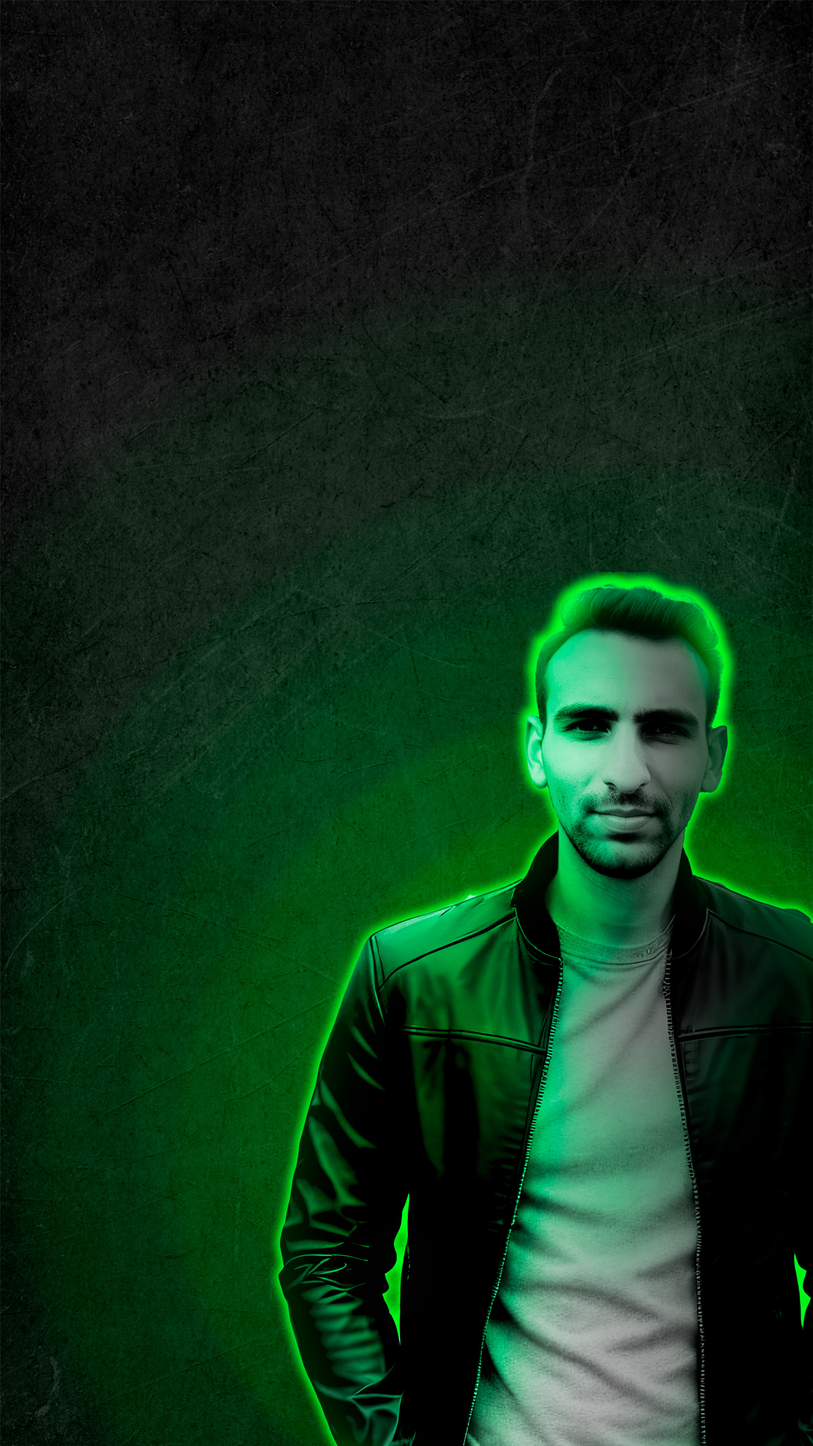
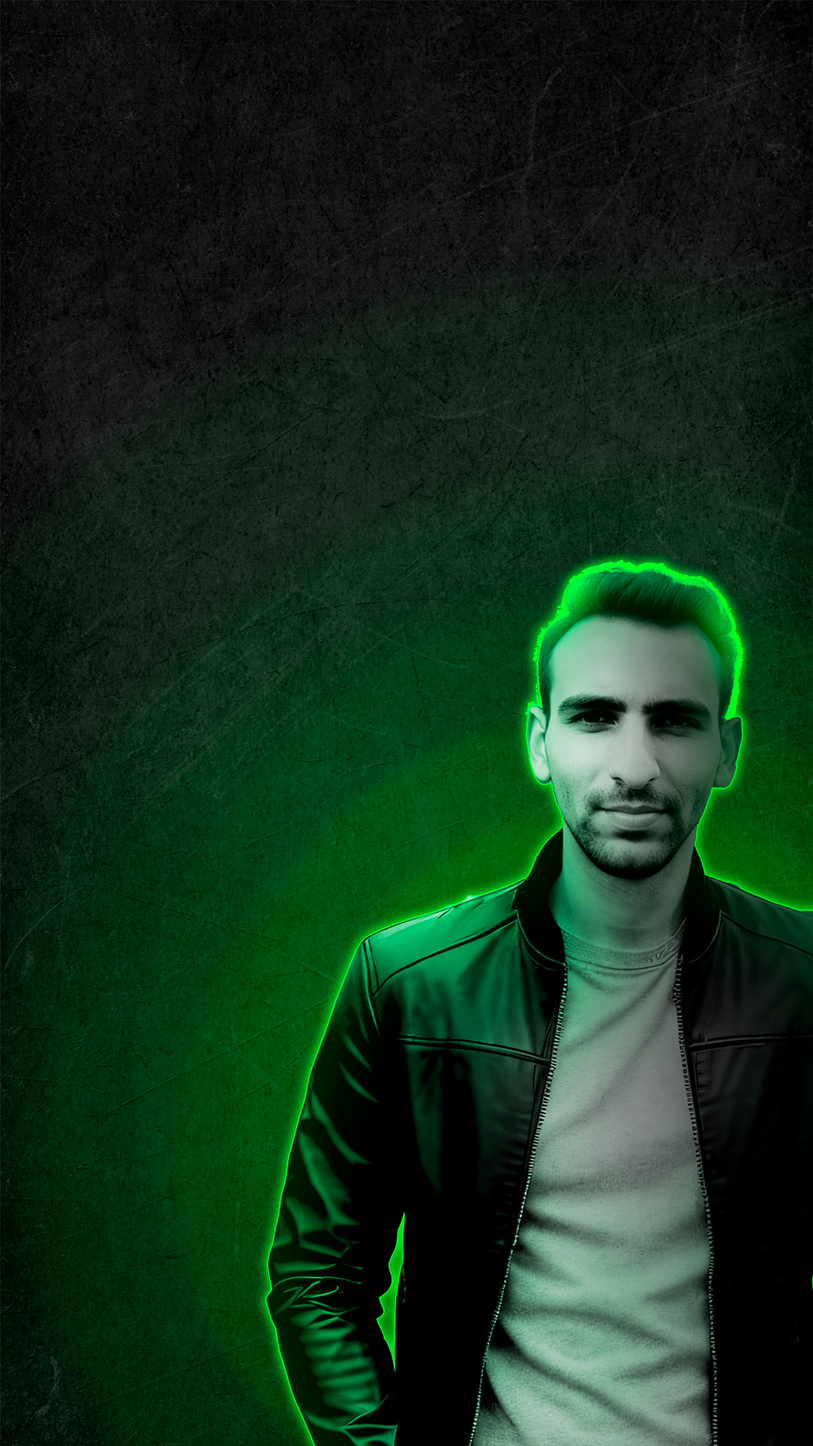
Site mk 12

diff --git a/pages/servicos.html b/pages/servicos.html
@@ -26,36 +26,36 @@
         
             <!-- Lista de links do menu hamburguer -->
             <ul class="menu-links">
-                <li><a  href="../">Home</a></li>
-                <li><a href="./sobre.html">Sobre</a></li>
-                <li><a class="active" href="#">Serviços</a></li>
-                <li><a href="./portfolio.html">Portfólio</a></li>
-                <li><a href="./contato.html">Contato</a></li>
+                <a  href="../"><li>Home</li></a>
+                <a href="./sobre.html"><li>Sobre</li></a>
+                <a class="active" href="#"><li>Serviços</li></a>
+                <a href="./portfolio.html"><li>Portfólio</li></a>
+                <a href="./contato.html"><li>Contato</li></a>
             </ul>
         </header>
 
         <div class="servico-container-text">
             <div class="servicos-text">
-                <h1>Serviços <span>Disponíveis</span></h1>
-                <h3><br>Fotografia e filmografia Freelancer</h3>
+                <h1>Serviços Disponíveis</h1>
+                <h3><br><span>Fotografia e filmografia Freelancer</span></h3>
                     <p>
-                        *Prestação de serviços de fotografia e filmografia freelancer 
+                        • Fotografia e filmografia freelancer 
                         para eventos usando equipamento próprio ou o designado 
                         pelo contratante.
                     </p>
-                <h3><br>Edição de vídeos</h3>
+                <h3><br><span>Edição de vídeos</span></h3>
                     <P> 
-                        *Prestação de serviços de edição e criação de vídeos Motion.<br>
-                        *Prestação de serviços de edição de videos para o youtube.<br>
-                        *Prestação de serviços de edição de vídeos para 15 anos, casamentos e etc.
+                        • Edição e criação de vídeos Motion.<br>
+                        • Edição de videos para o youtube.<br>
+                        • Edição de vídeos para 15 anos, casamentos e etc.
                     </P>
-                <h3><br>Design</h3>
+                <h3><br><span>Design</span></h3>
                     <p>
-                        *Prestação de serviços de criação de Flyers, capas e banners para eventos.                    
+                        • Criação de Flyers, capas e banners para eventos.                    
                     </p>
-                <h3><br>Transmissão ao vivo</h3>
+                <h3><br><span>Transmissão de vídeo</span></h3>
                     <p>
-                        *Prestação de serviço de Transmissão ao vivo (LIVE) para bandas, eventos e etc.
+                        • Prestação de serviço de transmissão de vídeo ao vivo (LIVE) para bandas, eventos e etc.
                     </p>
                 
             </div><!--text-->

diff --git a/pages/sobre.css b/pages/sobre.css
@@ -187,6 +187,7 @@ header{
         gap: 0;
         border-radius: 10px;
         margin-left: 10%;
+        z-index: 1;
 
     }
 
@@ -198,29 +199,31 @@ header{
         padding: 20px;
         width: 100%;
         text-align: center;
+        width: 100%;
     }
 
     .menu-links a {
         color: #fff;
         text-decoration: none;
         font-size: 16px;
-        
+        width: 100%;        
     }
-
+    
     .background{
-        background: linear-gradient(rgba(0, 0, 0, 0.123), rgba(0, 0, 0, 0.384)),url(../img/mobile-background.jpg);
+        background: linear-gradient(rgba(0, 0, 0, 0.123), rgba(0, 0, 0, 0.384)),url(../img/mobile-background-2.jpg);
         background-size: cover;
         background-position: center;
-        background-attachment: fixed;
-               
-    }
+        width: 100%;
+        height: 100vh;       
+        z-index: -1;
+       }
 
     .content-interno {
         z-index: 1;
         width: 100%;
         height: 100%;
         padding-bottom: 10%;
-        background: linear-gradient(rgba(0, 0, 0, 0.123), rgba(0, 0, 0, 0.384)),url(../img/mobile-background.jpg);
+        background: linear-gradient(rgba(0, 0, 0, 0.123), rgba(0, 0, 0, 0.384)),url(../img/mobile-background-2.jpg);
         background-size: cover;
         background-position: center;
         background-attachment: fixed;
@@ -230,10 +233,30 @@ header{
         margin-top: 8%;
         margin-left: 10%;
         margin-right: 10%;
-        width: 60%; 
+        width: 80%;         
+    }
 
-
-        
+    .text h3{
+        color: #fff;
+        font-size: 15px;
+    }
+    
+    .text h1{
+        font-size: 28px;
+        color: #fff;
+        text-align: center;
+    }
+    
+    .text span{
+        color: #2ecc71; 
+    }
+    
+    .text p{
+        color: #fff;
+        font-weight: 500;
+        margin-top: 10px;
+        font-size: 11px;
+        text-align: center;
     }
 
     .sobre-texto {

diff --git a/pages/servicos.css b/pages/servicos.css
@@ -93,7 +93,7 @@ header{
 .servico-container-text{
     margin-top: 4.5%;
     margin-left: 10%;
-    width: 50%;
+    width: 35%;
 }
 
 .servicos-text h3{
@@ -114,7 +114,7 @@ header{
     color: #fff;
     font-weight: 500;
     margin-top: 10px;
-    font-size: 11px;
+    font-size: 12px;
 }
 
 .redes-social{
@@ -169,6 +169,7 @@ header{
         gap: 0;
         border-radius: 10px;
         margin-left: 10%;
+        z-index: 1;
 
     }
 
@@ -180,22 +181,22 @@ header{
         padding: 20px;
         width: 100%;
         text-align: center;
+        width: 100%;
     }
 
     .menu-links a {
         color: #fff;
         text-decoration: none;
         font-size: 16px;
-        
+        width: 100%;        
     }
 
     .background{
-        background: linear-gradient(rgba(0, 0, 0, 0.123), rgba(0, 0, 0, 0.384)),url(../img/mobile-background.jpg);
+        background: linear-gradient(rgba(0, 0, 0, 0.123), rgba(0, 0, 0, 0.384)),url(../img/mobile-background-2.jpg);
         background-size: cover;
         background-position: center;
         width: 100%;
-        height: 100vh;
-       
+        height: 100vh;       
        }
     
    
@@ -213,7 +214,32 @@ header{
     .servico-container-text{
         margin-top: 10%;
         margin-left: 10%;
-        width: 65%;
+        width: 80%;
+    }
+
+    .servicos-text h3{
+        color: #fff;
+        font-size: 16px;
+        text-align: center;
+    }
+    
+    .servicos-text h1{
+        color: #fff;
+        margin-top: 10px;
+        text-align: center;
+    }
+    
+    .servicos-text span{
+        color: #2ecc71; 
+    }
+    
+    .servicos-text p{
+        color: #fff;
+        font-weight: 500;
+        margin-top: 10px;
+        font-size: 12px;
+        text-align:center;
+        text-shadow: 1px 1px 2px rgb(0, 0, 0);
     }
     
 }

diff --git a/index.html b/index.html
@@ -26,11 +26,11 @@
         
             <!-- Lista de links do menu / menu hamburguer -->
             <ul class="menu-links">
-                <li><a class="active" href="#">Home</a></li>
-                <li><a href="./pages/sobre.html">Sobre</a></li>
-                <li><a href="./pages/servicos.html">Serviços</a></li>
-                <li><a href="./pages/portfolio.html">Portfólio</a></li>
-                <li><a href="./pages/contato.html">Contato</a></li>
+                <a class="active" href="#"><li>Home</li></a>
+                <a href="./pages/sobre.html"><li>Sobre</li></a>
+                <a href="./pages/servicos.html"><li>Serviços</li></a>
+                <a href="./pages/portfolio.html"><li>Portfólio</li></a>
+                <a href="./pages/contato.html"><li>Contato</li></a>
             </ul>
         </header>
 

diff --git a/pages/sobre.html b/pages/sobre.html
@@ -29,11 +29,11 @@
             
                 <!-- Lista de links do menu hamburguer -->
                 <ul class="menu-links">
-                    <li><a  href="../">Home</a></li>
-                    <li><a class="active" href="#">Sobre</a></li>
-                    <li><a href="./servicos.html">Serviços</a></li>
-                    <li><a href="./portfolio.html">Portfólio</a></li>
-                    <li><a href="./contato.html">Contato</a></li>
+                    <a  href="../"><li>Home</li></a>
+                    <a class="active" href="#"><li>Sobre</li></a>
+                    <a href="./servicos.html"><li>Serviços</li></a>
+                    <a href="./portfolio.html"><li>Portfólio</li></a>
+                    <a href="./contato.html"><li>Contato</li></a>
                 </ul>
             </header>
     

diff --git a/pages/portfolio/design.html b/pages/portfolio/design.html
@@ -26,11 +26,11 @@
         
             <!-- Lista de links do menu hamburguer -->
             <ul class="menu-links">
-                <li><a  href="../../">Home</a></li>
-                <li><a href="../sobre.html">Sobre</a></li>
-                <li><a href="../servicos.html">Serviços</a></li>
-                <li><a class="active" href="../portfolio.html">Portfólio</a></li>
-                <li><a href="../contato.html">Contato</a></li>
+                <a  href="../../"><li>Home</li></a>
+                <a href="../sobre.html"><li>Sobre</li></a>
+                <a href="../servicos.html"><li>Serviços</li></a>
+                <a class="active" href="../portfolio.html"><li>Portfólio</li></a>
+                <a href="../contato.html"><li>Contato</li></a>
             </ul>
         </header>
         

diff --git a/pages/portfolio/fotos.html b/pages/portfolio/fotos.html
@@ -26,11 +26,11 @@
         
             <!-- Lista de links do menu hamburguer -->
             <ul class="menu-links">
-                <li><a  href="../../">Home</a></li>
-                <li><a href="../sobre.html">Sobre</a></li>
-                <li><a href="../servicos.html">Serviços</a></li>
-                <li><a class="active" href="../portfolio.html">Portfólio</a></li>
-                <li><a href="../contato.html">Contato</a></li>
+                <a  href="../../"><li>Home</li></a>
+                <a href="../sobre.html"><li>Sobre</li></a>
+                <a href="../servicos.html"><li>Serviços</li></a>
+                <a class="active" href="../portfolio.html"><li>Portfólio</li></a>
+                <a href="../contato.html"><li>Contato</li></a>
             </ul>
         </header>
         

diff --git a/pages/portfolio/videos.html b/pages/portfolio/videos.html
@@ -26,11 +26,11 @@
         
             <!-- Lista de links do menu hamburguer -->
             <ul class="menu-links">
-                <li><a  href="../../">Home</a></li>
-                <li><a href="../sobre.html">Sobre</a></li>
-                <li><a href="../servicos.html">Serviços</a></li>
-                <li><a class="active" href="../portfolio.html">Portfólio</a></li>
-                <li><a href="../contato.html">Contato</a></li>
+                <a  href="../../"><li>Home</li></a>
+                <a href="../sobre.html"><li>Sobre</li></a>
+                <a href="../servicos.html"><li>Serviços</li></a>
+                <a class="active" href="../portfolio.html"><li>Portfólio</li></a>
+                <a href="../contato.html"><li>Contato</li></a>
             </ul>
         </header>
         

diff --git a/pages/contato.html b/pages/contato.html
@@ -26,11 +26,11 @@
         
             <!-- Lista de links do menu hamburguer -->
             <ul class="menu-links">
-                <li><a  href="../">Home</a></li>
-                <li><a href="./sobre.html">Sobre</a></li>
-                <li><a href="./servicos.html">Serviços</a></li>
-                <li><a href="./portfolio.html">Portfólio</a></li>
-                <li><a class="active" href="#">Contato</a></li>
+                <a  href="../"><li>Home</li></a>
+                <a href="./sobre.html"><li>Sobre</li></a>
+                <a href="./servicos.html"><li>Serviços</li></a>
+                <a href="./portfolio.html"><li>Portfólio</li></a>
+                <a class="active" href="#"><li>Contato</li></a>
             </ul>
         </header>
 

diff --git a/pages/portfolio.html b/pages/portfolio.html
@@ -27,11 +27,11 @@
         
             <!-- Lista de links do menu hamburguer -->
             <ul class="menu-links">
-                <li><a  href="../">Home</a></li>
-                <li><a href="./sobre.html">Sobre</a></li>
-                <li><a href="./servicos.html">Serviços</a></li>
-                <li><a class="active" href="#">Portfólio</a></li>
-                <li><a href="./contato.html">Contato</a></li>
+                <a   href="../"><li>Home</li></a>
+                <a href="./sobre.html"><li>Sobre</li></a>
+                <a href="./servicos.html"><li>Serviços</li></a>
+                <a class="active" href="#"><li>Portfólio</li></a>
+                <a href="./contato.html"><li>Contato</li></a>
             </ul>
         </header>
 

diff --git a/style.css b/style.css
@@ -169,6 +169,7 @@ header{
         gap: 0;
         border-radius: 10px;
         margin-left: 10%;
+        z-index: 1;
 
     }
 
@@ -180,13 +181,14 @@ header{
         padding: 20px;
         width: 100%;
         text-align: center;
+        width: 100%;
     }
 
     .menu-links a {
         color: #fff;
         text-decoration: none;
         font-size: 16px;
-        
+        width: 100%;        
     }
 
     .background{

diff --git a/pages/portfolio-midia.css b/pages/portfolio-midia.css
@@ -36,6 +36,7 @@
         gap: 0;
         border-radius: 10px;
         margin-left: 10%;
+        z-index: 1;
 
     }
 
@@ -47,13 +48,14 @@
         padding: 20px;
         width: 100%;
         text-align: center;
+        width: 100%;
     }
 
     .menu-links a {
         color: #fff;
         text-decoration: none;
         font-size: 16px;
-        
+        width: 100%;      
     }
 
     .container-text-portfolio { 
